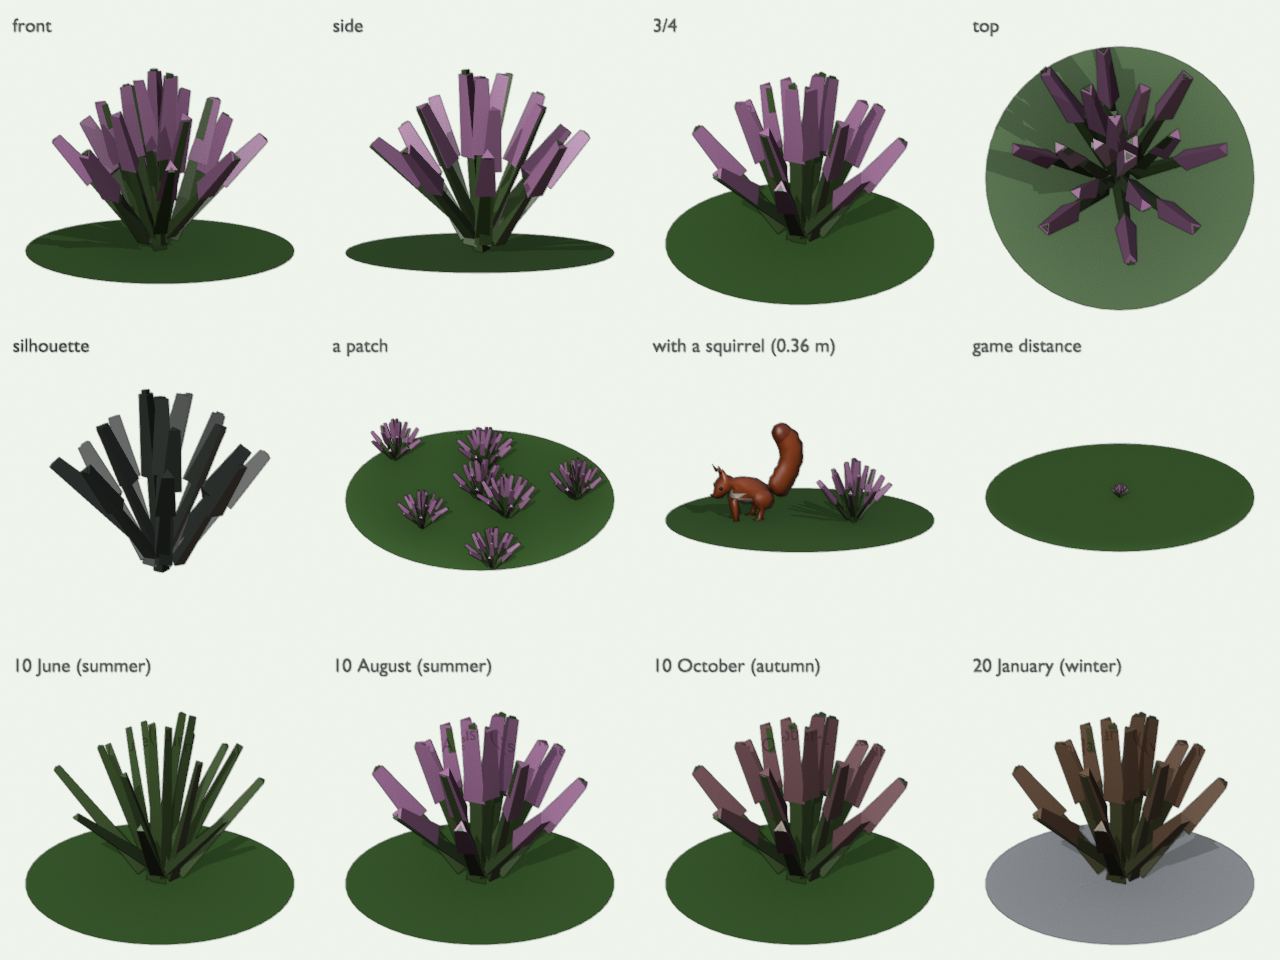
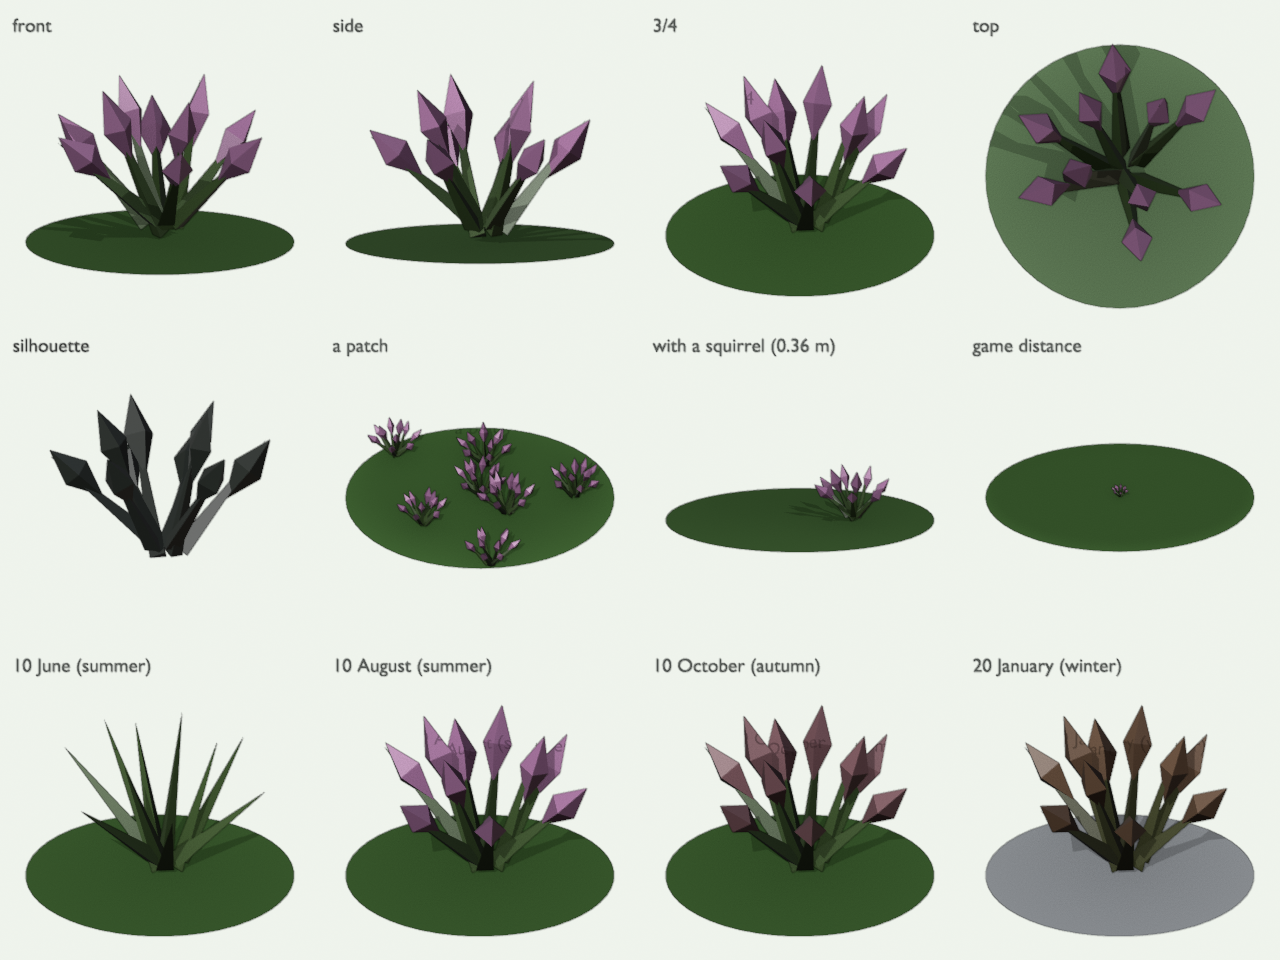
Cheaper common plants and a plant budget per place
Plants are drawn thousands of times on cheap phones. Measured in Nuuksio
in August, five common plants at about 300 triangles each made the ground
cover around the player cost 95-143k triangles, more than all the terrain
and trees. Bilberry, lingonberry, heather and crowberry are now about 120
triangles: leaves and berries with `detail` 0.5 / 0.3 or less build as
2-triangle diamonds and 8-triangle balls. validate_region.py now limits a
place's plants to 100 triangles per square metre of open ground (density
x triangles, from the built models); Nuuksio is at 80, and would have
been about 160 before. ART.md, CONTRIBUTING.md and models/README.md say so.

diff --git a/tools/validate_region.py b/tools/validate_region.py
@@ -30,6 +30,38 @@ ANIMALS = {f[:-5] for f in os.listdir(os.path.join(ROOT, "animals"))
 PLANTS = {f[:-5] for f in os.listdir(os.path.join(ROOT, "models", "plants")) if f.endswith(".json")}
 
 
+# Plants are drawn thousands of times on cheap phones, so a place's plants
+# together may cost at most this many triangles per square metre of open ground:
+# each plant's density times its triangles, added up (ART.md, budgets).
+PLANT_TRIS_PER_M2 = 100
+
+
+def glb_triangles(path):
+    """Triangles in a built model, read from the .glb (every part, all year)."""
+    import struct
+    with open(path, "rb") as f:
+        data = f.read()
+    n = struct.unpack("<I", data[12:16])[0]
+    gltf = json.loads(data[20:20 + n])
+    tris = 0
+    for mesh in gltf.get("meshes", []):
+        for prim in mesh.get("primitives", []):
+            acc = prim.get("indices", prim.get("attributes", {}).get("POSITION"))
+            if acc is not None:
+                tris += gltf["accessors"][acc]["count"] // 3
+    return tris
+
+
+def plant_cost(plants):
+    """[(model, density × triangles)] for the plants whose model is built."""
+    out = []
+    for pl in plants:
+        glb = os.path.join(ROOT, "assets", "plants", str(pl.get("model")) + ".glb")
+        if isinstance(pl.get("density"), (int, float)) and os.path.exists(glb):
+            out.append((pl["model"], pl["density"] * glb_triangles(glb)))
+    return out
+
+
 def check(path):
     errors = []
 
@@ -155,6 +187,12 @@ def check(path):
     total += sum(pl.get("density", 0) for pl in plants if isinstance(pl.get("density"), (int, float)))
     if total > 1:
         err('"ground_cover" grass + flowers + stones + plant densities must add up to 1 or less')
+    cost = plant_cost(plants)
+    if sum(c for _, c in cost) > PLANT_TRIS_PER_M2:
+        top = ", ".join(f"{m} {c:.0f}" for m, c in sorted(cost, key=lambda x: -x[1])[:3])
+        err(f'"ground_cover.plants" cost {sum(c for _, c in cost):.0f} triangles per square metre of open ground; '
+            f'the limit is {PLANT_TRIS_PER_M2} (ART.md). Lower the density of a common plant or make it simpler. '
+            f'Most expensive: {top}')
     for i, col in enumerate(gc.get("flower_colors", [])):
         if not (isinstance(col, str) and HEX.match(col)):
             err(f'"ground_cover.flower_colors[{i}]" must be a colour')

diff --git a/tools/blender/spec_shapes.py b/tools/blender/spec_shapes.py
@@ -36,19 +36,28 @@ def rot_matrix(rot):
 
 # a flat leaf, pointed at the front (+z), lying flat: one face
 LEAF = [(0, 0.5), (-0.5, 0.1), (-0.35, -0.25), (0, -0.5), (0.35, -0.25), (0.5, 0.1)]
+# cheaper versions for plants drawn thousands of times (`detail` 0.5 or less)
+LEAF_LOW = [(0, 0.5), (-0.5, -0.05), (0, -0.5), (0.5, -0.05)]           # a diamond: 2 triangles
+OCTA = [(0.5, 0, 0), (-0.5, 0, 0), (0, 0.5, 0), (0, -0.5, 0), (0, 0, 0.5), (0, 0, -0.5)]
+OCTA_FACES = [(0, 2, 4), (2, 1, 4), (1, 3, 4), (3, 0, 4), (2, 0, 5), (1, 2, 5), (3, 1, 5), (0, 3, 5)]
 
 
 def add_shape(bm, p):
     """Adds one spec part to the bmesh and returns its new vertices."""
     detail = p.get("detail", 1.0)
     shape = p["shape"]
-    if shape == "box":
+    if shape == "ball" and detail <= 0.3:
+        # a ball of 8 triangles: berries and tiny buds, drawn thousands of times
+        geom = [bm.verts.new(v) for v in OCTA]
+        for f in OCTA_FACES:
+            bm.faces.new([geom[i] for i in f])
+    elif shape == "box":
         geom = bmesh.ops.create_cube(bm, size=1.0)["verts"]
     elif shape == "ball":
         geom = bmesh.ops.create_uvsphere(bm, u_segments=max(4, round(10 * detail)),
                                          v_segments=max(3, round(7 * detail)), radius=0.5)["verts"]
     elif shape == "leaf":
-        geom = [bm.verts.new((x, y, 0.0)) for x, y in LEAF]
+        geom = [bm.verts.new((x, y, 0.0)) for x, y in (LEAF_LOW if detail <= 0.5 else LEAF)]
         bm.faces.new(geom)
     else:
         top = {"cone": 0.0, "cylinder": 1.0, "taper": p.get("top", 0.5)}[shape]

diff --git a/ART.md b/ART.md
@@ -52,14 +52,16 @@ The game is for millions of players on cheap phones, with many animals on screen
 |---|---|---|---|
 | Playable animal | 1,000 (up to 1,500 for a large, complex one) | up to 16 | under 50 KB |
 | Wildlife that is never played (prey, fish in schools) | 400–800 | up to 12 | under 30 KB |
-| Plant spec, `kind: "bush"` (a bilberry, a fern), or a prop or tree | under 300 on any day of the year | none | `.glb` from a spec, or made in code |
+| Plant spec, `kind: "bush"` (a bilberry, a fern), or a prop or tree | under 300 on any day of the year; **about 120 for a common plant** (one that carpets the ground) | none | `.glb` from a spec, or made in code |
 | Ground cover, `kind: "ground"` (grass, a small flower, a stone), drawn thousands of times | under 50 | none | `.glb` from a spec, or made in code |
+| **All the plants of a place together** | under **100 per square metre** of open ground: each plant's `density` × its triangles, added up. `validate_region.py` checks it | | |
 
 What we measured ([decision 0012](docs/decisions/0012-smooth-skin-models.md)):
 - **Animation is usually the biggest cost.** It grows with bones × clips. The downloaded fox's 51 bones and 12 clips are 407 of its 489 KB; the squirrel's 12 bones and 5 generated clips are 14 KB. Keep bones few.
 - **Each triangle costs about 35 bytes** of download with flat shading and about 20 with smooth shading.
 - **One material per animal.** Its colours are stored on the vertices, so the phone draws it in one call ([decision 0013](docs/decisions/0013-one-material-per-animal.md)). With one material per colour, 48 animals cost 1,218 draw calls per frame; now they cost 198.
 - **Smooth shading moves about 6 times fewer vertices** than flat: 587 for the squirrel against 3,278 for the same body faceted.
+- **Plants are drawn thousands of times.** Measured in Nuuksio in August (2026-10-15): with five common plants at about 300 triangles each, the ground cover around the player cost 95–143k triangles and 161–173 draw calls, more than all the terrain and trees. Now each chunk's ground cover is one merged mesh per material (about 4 draw calls), plants are drawn only within about 20 m, and the common plants are about 120 triangles. Cheap plants use `detail` 0.5 or less for 2-triangle leaves and 0.3 or less for 8-triangle berries.
 
 The red squirrel is 1,000 triangles, 12 bones, one material and a 33 KB download. Detail smaller than about 1 cm on a small animal, or 5 cm on a large one, won't show from the game camera, so leave it out.
 

diff --git a/CONTRIBUTING.md b/CONTRIBUTING.md
@@ -195,9 +195,9 @@ Every plant must follow these rules. The checks run on every pull request and st
 | 5 | **Its real year.** Fill in `year` (see below). Use `show` for flowers, fruit and leaves that are only there part of the year, and `seasons` for colours that change. A plant that drops its leaves must have `show` on its leaves. | `check_models.gd`, reviewer |
 | 6 | **Sources.** List in `sources` where its looks and its year come from: links or book titles. | `check_models.gd` |
 | 7 | **Made by you, from the spec.** No downloaded models, photos or textures. | Reviewer |
-| 8 | **Within budget.** `kind: "ground"` is under 50 triangles and `kind: "bush"` under 300, on the busiest day of the year. | Builder |
+| 8 | **Within budget.** `kind: "ground"` is under 50 triangles and `kind: "bush"` under 300, on the busiest day of the year. A common plant (one that carpets the ground) should be about 120: use `detail` 0.5 or less on leaves and 0.3 or less on berries. | Builder |
 | 9 | **Data only.** Change only `models/plants/`, its built files (`assets/plants/`, `models/previews/plants/`) and region files. If the plant needs something the spec can't do (a new shape, or being food, a hiding place or an obstacle), ask in your pull request. | Reviewer |
-| 10 | **Realistic amounts.** Set `density` to how common it really is there. Use `near_trees` for forest plants. Together with grass, flowers and stones, the amounts must add up to 1 or less. | `validate_region.py` |
+| 10 | **Realistic amounts, within the place's budget.** Set `density` to how common it really is there. Use `near_trees` for forest plants. Together with grass, flowers and stones, the amounts must add up to 1 or less. All the place's plants together may cost at most 100 triangles per square metre of open ground (each `density` × its triangles), so phones can draw them: a common plant must be cheap. | `validate_region.py` |
 
 A plant is scenery unless the place makes it food. A place's `ground_cover.plants` entry can turn a plant, or one part of it, into food with `"food"` (see the region table): the porcini and the bilberry bushes in Nuuksio are food that way, while their part is in season. Only do that if the animals there really eat it ([Food first](#food-first-the-minimum-requirement)), and never for a plant that's poisonous to people, like the fly agaric: children learn from what the animals eat.
 

diff --git a/models/README.md b/models/README.md
@@ -198,7 +198,7 @@ Parts take the same fields as an animal's (no `bone`), plus:
 
 | Field | What it means |
 |---|---|
-| `shape` | Also `leaf`: a flat leaf, pointed at the front (+z), with one face. `size` is `[width, unused, length]`. |
+| `shape` | Also `leaf`: a flat leaf, pointed at the front (+z), with one face. `size` is `[width, unused, length]`. With `detail` 0.5 or less it's a diamond of 2 triangles instead of 4, and a `ball` with `detail` 0.3 or less has 8 triangles instead of 16: use these for plants that grow everywhere (see the budgets in ART.md). |
 | `around` | Makes this many copies spaced evenly around the stem (the upright line through `pivot`, `[x, z]`, default `[0, 0]`). Put the first copy on the front (+z). `turn` (degrees) turns the whole ring. |
 | `jitter` | 0–1: copies in a ring differ a little in angle, tilt and size, so the plant looks grown, not machined. The same spec always builds the same plant. |
 | `seed` | Optional name: rings with the same `seed`, `around` and `jitter` get the same random turns, so one part can sit on another, like heather's flower spikes on its shoots. |
